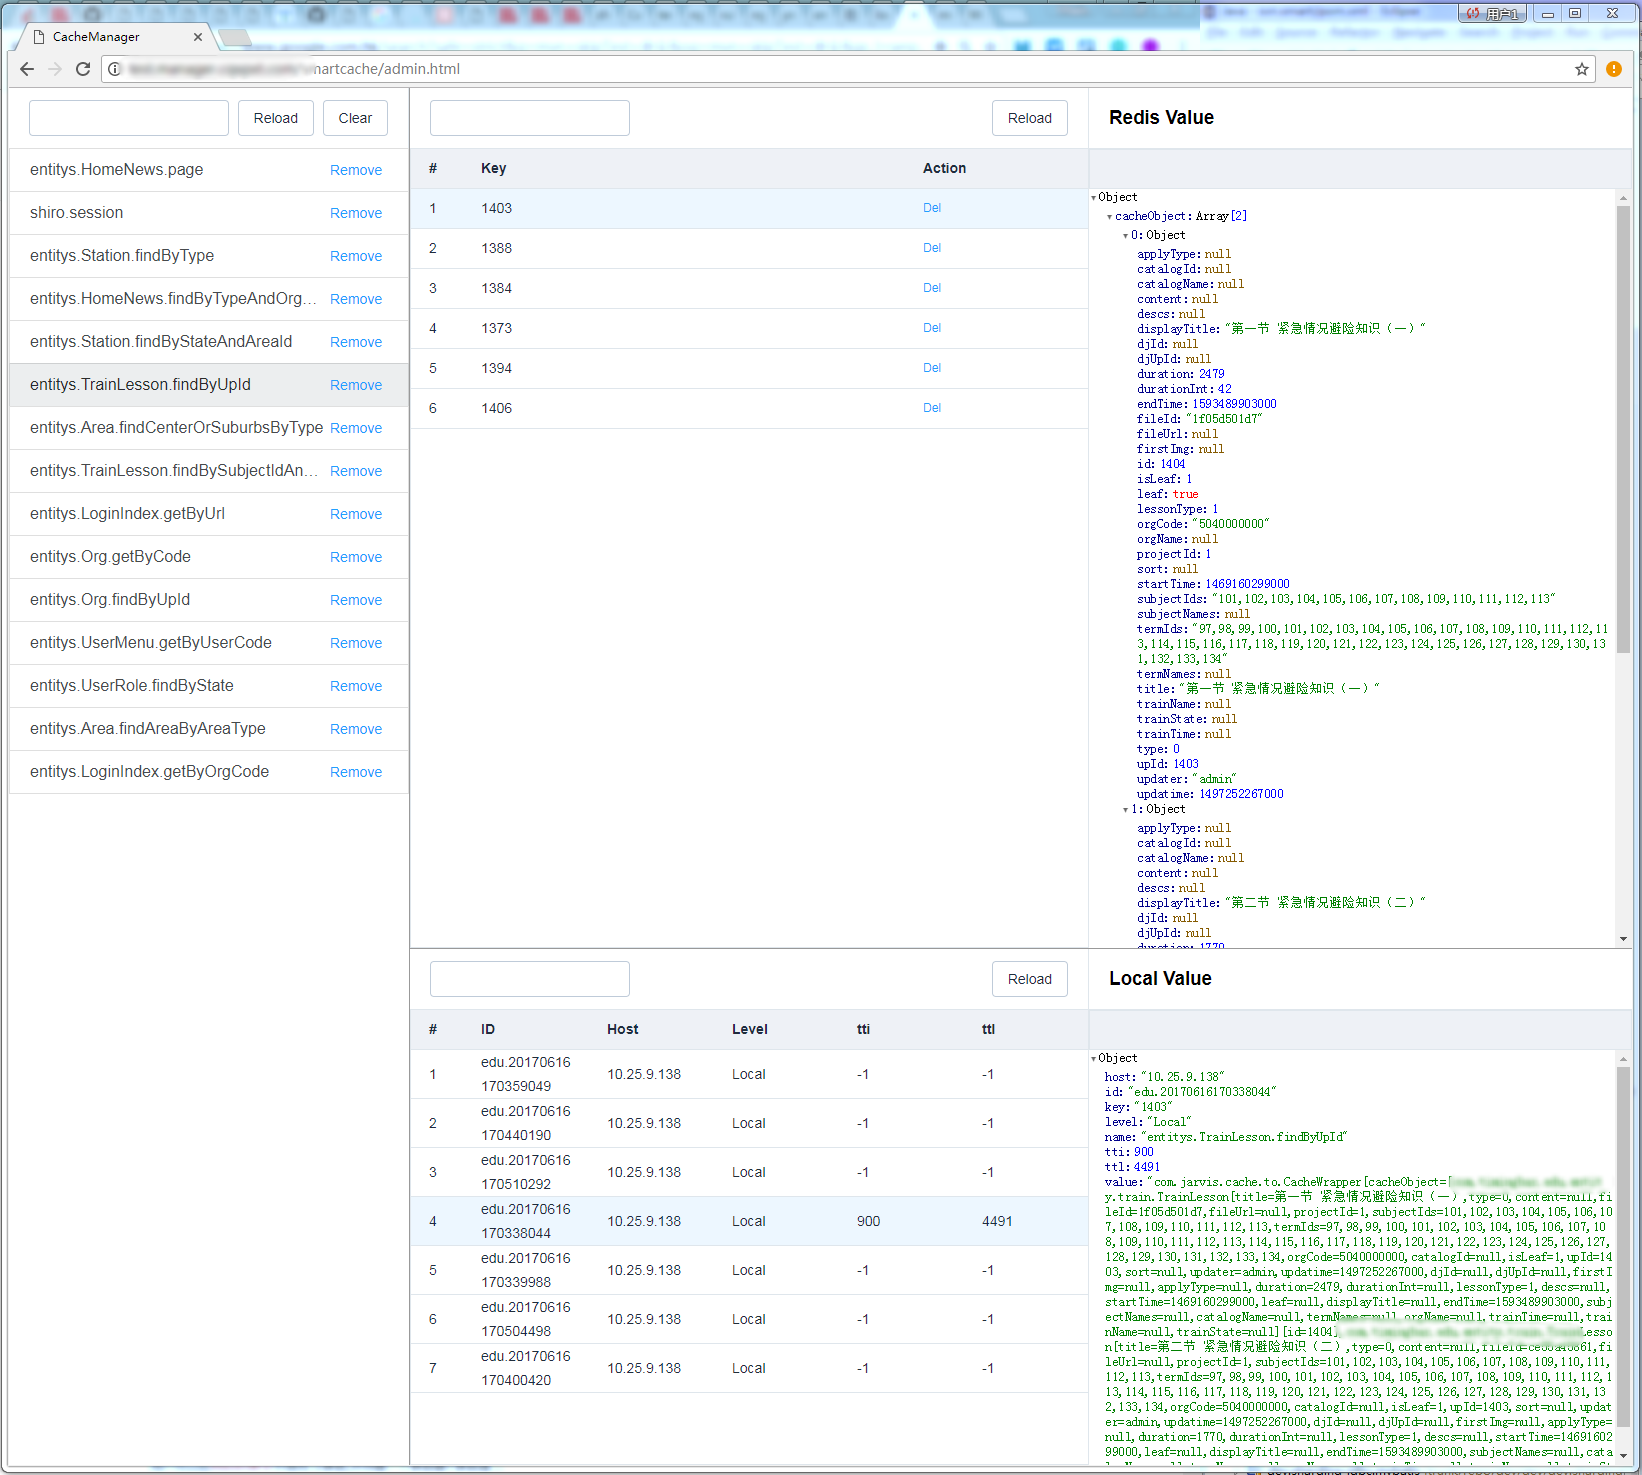
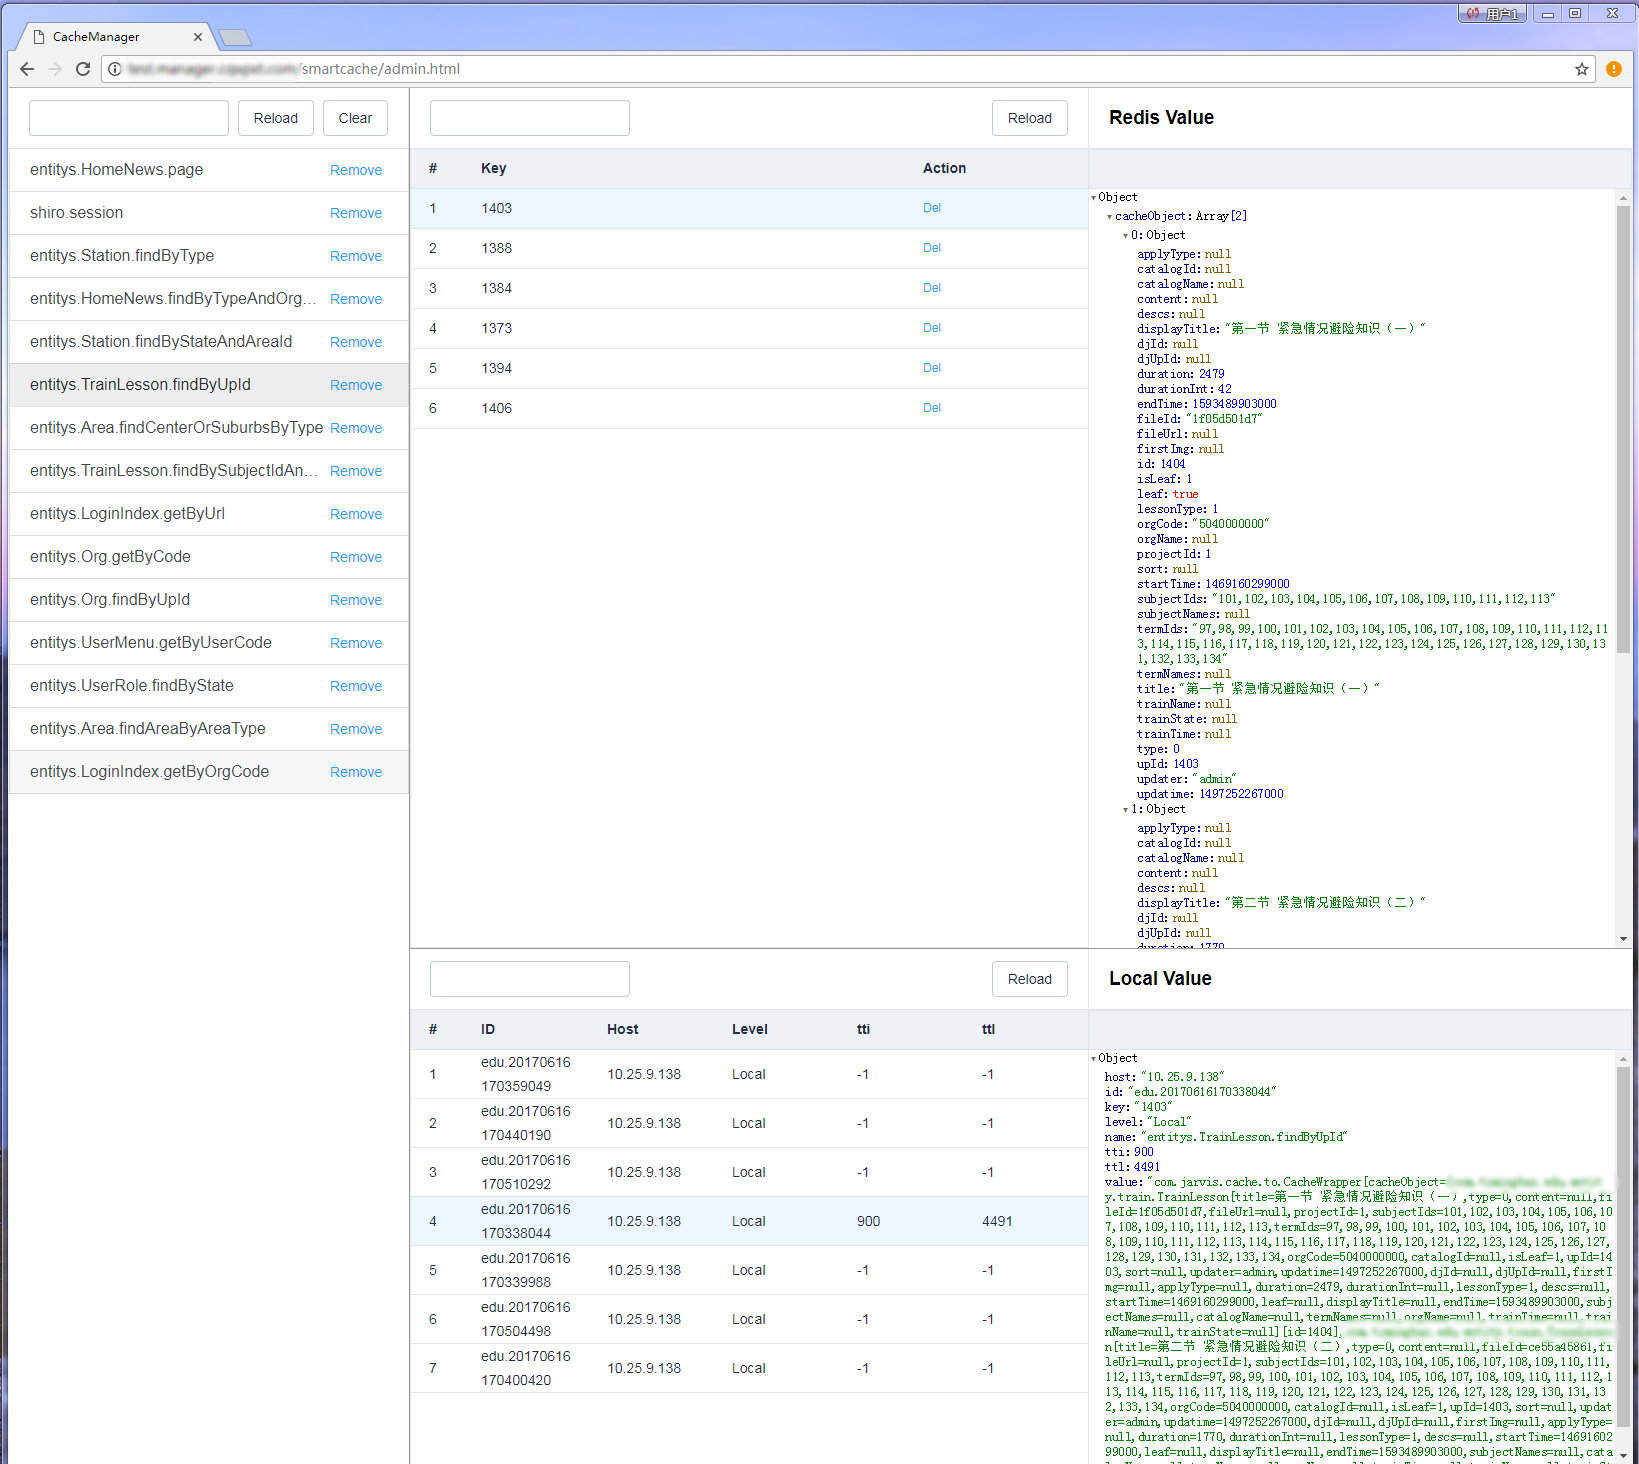
修改admin.html样式

diff --git a/smart-cache/src/main/resources/support/admin.html b/smart-cache/src/main/resources/support/admin.html
@@ -1,126 +1,104 @@
 <!DOCTYPE html>
 <html lang="en">
-	<head>
-		<meta charset="UTF-8">
-		<title>Smart Cache Admin</title>
-		<link rel="stylesheet" href="./static/lib/element-ui/element-ui.css">
-		<link rel="stylesheet" href="./static/lib/json-formatter/json-formatter.css">
-		<link rel="stylesheet" href="./static/css/admin.css">
-	</head>
-	<body>
-		<div id="app">
-			<nav>
-				<!-- toolbar -->
-				<div class="toolbar">
-					<el-input :icon="filter?'close':''" v-model="filter" :on-icon-click="clearFilter">
-					</el-input>
-					<el-button :loading="namesLoading" @click="reload">
-						Reload
-					</el-button>
-					<el-button @click="cls">
-						Clear
-					</el-button>
-				</div>
-				<!-- names -->
-				<div class="names" v-loading="namesLoading">
-					<ul class="list-group">
-						<li v-for="n in filterNames" class="list-group-item" @click="selectName(n)" :class="{active:n==name}" :title="n">
-							<span class="text-truncate">{{n}}</span>
-							<el-button type="text" @click="rem(n, $event)">
-								Remove
-							</el-button>
-						</li>
-					</ul>
-				</div>
-			</nav>
-			<main>
-				<!-- keys -->
-				<div>
-					<!-- keys table -->
-					<div class="table-view">
-						<div class="toolbar">
-							<el-input :icon="keyFilter?'close':''" v-model="keyFilter" :on-icon-click="clearKeyFilter">
-							</el-input>
-							<el-button :loading="keysLoading" @click="reloadKeys">
-								Reload
-							</el-button>
-						</div>
-						<div class="table-wrapper" v-loading="keysLoading">
-							<el-table :data="filterKeys" height="100%" highlight-current-row empty-text="Empty.." @row-click="selectKey">
-								<el-table-column type="index" width="50">
-								</el-table-column>
-								<el-table-column prop="name" label="Key">
-								</el-table-column>
-								<el-table-column label="Action" width="180">
-									<template scope="scope">
-										<el-button type="text" size="small" @click="del(scope.row.name, $event)">
-											Del
-										</el-button>
-									</template>
-								</el-table-column>
-							</el-table>
-						</div>
-					</div>
-					<div class="review">
-						<h3>Redis Value</h3>
-						<div id="redis">
-							<div class="header">
-							</div>
-							<div class="content-wrapper" v-loading="redisLoading">
-							</div>
-						</div>
-					</div>
-					<!-- redis value -->
-				</div>
-				<!-- hosts -->
-				<div>
-					<!-- hosts tab -->
-					<div class="table-view">
-						<div class="toolbar">
-							<el-input :icon="hostFilter?'close':''" v-model="hostFilter" :on-icon-click="clearHostFilter">
-							</el-input>
-							<el-button :loading="hostsLoading" @click="reloadHosts">
-								Reload
-							</el-button>
-						</div>
-						<div class="table-wrapper" v-loading="hostsLoading">
-							<el-table :data="filterHosts" height="100%" highlight-current-row empty-text="Empty.." @row-click="selectHost">
-								<el-table-column type="index" width="50">
-								</el-table-column>
-								<el-table-column prop="id" label="ID">
-								</el-table-column>
-								<el-table-column prop="host" label="Host">
-								</el-table-column>
-								<el-table-column prop="level" label="Level">
-								</el-table-column>
-								<el-table-column prop="tti" label="tti">
-								</el-table-column>
-								<el-table-column prop="ttl" label="ttl">
-								</el-table-column>
-								<!--<el-table-column label="Action" width="180">-->
-								<!--<template scope="scope">-->
-								<!--<el-button type="text" size="small" @click="del(scope.row.name)">del</el-button>-->
-								<!--</template>-->
-								<!--</el-table-column>-->
-							</el-table>
-						</div>
-					</div>
-					<!-- local value -->
-					<div class="review">
-						<h3>Local Value</h3>
-						<div id="host">
-							<div class="header">
-							</div>
-							<div class="content-wrapper">
-							</div>
-						</div>
-					</div>
-				</div>
-			</main>
-			<script src="./static/lib/vue/vue.min.js"></script>
-			<script src="./static/lib/element-ui/element-ui.js"></script>
-			<script src="./static/lib/json-formatter/json-formatter.js"></script>
-			<script src="./static/js/admin.js"></script>
-		</div>
-	</body>
+    <head>
+        <meta charset="UTF-8">
+        <title>Smart Cache Admin</title>
+        <link rel="stylesheet" href="./static/lib/element-ui/element-ui.css">
+        <link rel="stylesheet" href="./static/lib/json-formatter/json-formatter.css">
+        <link rel="stylesheet" href="./static/css/admin.css">
+    </head>
+    <body>
+        <div id="app">
+            <header>
+                Smart Cache Admin
+            </header>
+            <div id="content">
+                <nav>
+                    <!-- toolbar -->
+                    <div class="toolbar">
+                        <el-input :icon="filter?'close':''" v-model="filter" :on-icon-click="clearFilter"></el-input>
+                        <el-button :loading="namesLoading" @click="reload">Reload</el-button>
+                        <el-button @click="cls">Clear</el-button>
+                    </div>
+                    <!-- names -->
+                    <div class="names" v-loading="namesLoading">
+                        <ul class="list-group">
+                            <li v-for="n in filterNames" class="list-group-item" @click="selectName(n)" :class="{active:n==name}" :title="n">
+                                <span class="text-truncate">{{n}}</span>
+                                <el-button type="text" @click="rem(n, $event)">Remove</el-button>
+                            </li>
+                        </ul>
+                    </div>
+                </nav>
+                <main>
+                    <!-- keys -->
+                    <div>
+                        <!-- keys table -->
+                        <div class="table-view">
+                            <div class="toolbar">
+                                <el-input :icon="keyFilter?'close':''" v-model="keyFilter" :on-icon-click="clearKeyFilter"></el-input>
+                                <el-button :loading="keysLoading" @click="reloadKeys">Reload</el-button>
+                            </div>
+                            <div class="table-wrapper" v-loading="keysLoading">
+                                <el-table :data="filterKeys" height="100%" highlight-current-row empty-text="Empty.." @row-click="selectKey">
+                                    <el-table-column type="index" width="50"></el-table-column>
+                                    <el-table-column prop="name" label="Key"></el-table-column>
+                                    <el-table-column label="Action" width="180">
+                                        <template scope="scope">
+                                            <el-button type="text" size="small" @click="del(scope.row.name, $event)">Del</el-button>
+                                        </template>
+                                    </el-table-column>
+                                </el-table>
+                            </div>
+                        </div>
+                        <div class="review">
+                            <h3>Remote Value</h3>
+                            <div id="redis">
+                                <div class="header"></div>
+                                <div class="content-wrapper" v-loading="redisLoading"></div>
+                            </div>
+                        </div>
+                        <!-- redis value -->
+                    </div>
+                    <!-- hosts -->
+                    <div>
+                        <!-- hosts tab -->
+                        <div class="table-view">
+                            <div class="toolbar">
+                                <el-input :icon="hostFilter?'close':''" v-model="hostFilter" :on-icon-click="clearHostFilter"></el-input>
+                                <el-button :loading="hostsLoading" @click="reloadHosts">Reload</el-button>
+                            </div>
+                            <div class="table-wrapper" v-loading="hostsLoading">
+                                <el-table :data="filterHosts" height="100%" highlight-current-row empty-text="Empty.." @row-click="selectHost">
+                                    <el-table-column type="index" width="50"></el-table-column>
+                                    <el-table-column prop="id" label="ID"></el-table-column>
+                                    <el-table-column prop="host" label="Host"></el-table-column>
+                                    <el-table-column prop="level" label="Level"></el-table-column>
+                                    <el-table-column prop="tti" label="tti"></el-table-column>
+                                    <el-table-column prop="ttl" label="ttl"></el-table-column>
+                                    <!--<el-table-column label="Action" width="180">-->
+                                    <!--<template scope="scope">-->
+                                    <!--<el-button type="text" size="small" @click="del(scope.row.name)">del</el-button>-->
+                                    <!--</template>-->
+                                    <!--</el-table-column>-->
+                                </el-table>
+                            </div>
+                        </div>
+                        <!-- local value -->
+                        <div class="review">
+                            <h3>Local Value</h3>
+                            <div id="host">
+                                <div class="header"></div>
+                                <div class="content-wrapper"></div>
+                            </div>
+                        </div>
+                    </div>
+                </main>
+            </div>
+            <script src="./static/lib/vue/vue.min.js"></script>
+            <script src="./static/lib/element-ui/element-ui.js"></script>
+            <script src="./static/lib/json-formatter/json-formatter.js"></script>
+            <script src="./static/js/admin.js"></script>
+        </div>
+    </body>
 </html>

diff --git a/smart-cache/src/main/resources/support/static/css/admin.css b/smart-cache/src/main/resources/support/static/css/admin.css
@@ -12,10 +12,27 @@ html, body {
 
 #app {
     display: flex;
+    flex-direction: column;
     height: 100%;
 }
 
-#app nav {
+#app header {
+    flex: none;
+    background-color: #2196F3;
+    color: #fff;
+    height: 60px;
+    line-height:60px;
+    padding: 0 20px;
+    font-size: 24px;
+    font-weight: bolder;
+}
+
+#content {
+    flex: auto;
+    display: flex;
+}
+
+#content nav {
     width: 400px;
     flex: none;
     display: flex;
@@ -24,7 +41,7 @@ html, body {
     border-right: 1px solid #999;
 }
 
-#app main {
+#content main {
     display: flex;
     flex-direction: column;
     flex: auto;
@@ -64,13 +81,13 @@ ul {
     width: 200px;
 }
 
-#app nav .names {
+#content nav .names {
     flex: auto;
     overflow-x: hidden;
     overflow-y: auto;
 }
 
-#app nav .names .el-button--text {
+#content nav .names .el-button--text {
     padding: 0 6px;
 }
 
@@ -78,21 +95,21 @@ ul {
     margin-left: 0;
 }
 
-#app main > div {
+#content main > div {
     display: flex;
     border-bottom: 1px solid #999;
 }
 
-#app main > div:first-child {
+#content main > div:first-child {
     flex: 5;
     border-bottom: 1px solid #999;
 }
 
-#app main > div:last-child {
+#content main > div:last-child {
     flex: 3;
 }
 
-#app main > div:last-child {
+#content main > div:last-child {
     border-bottom: none;
 }
 
